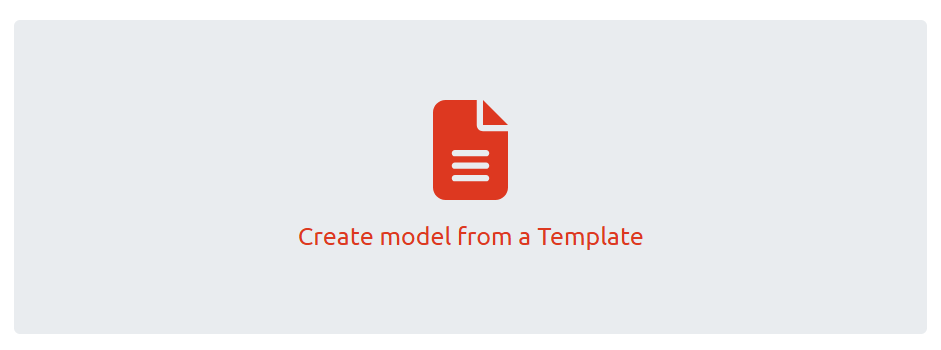
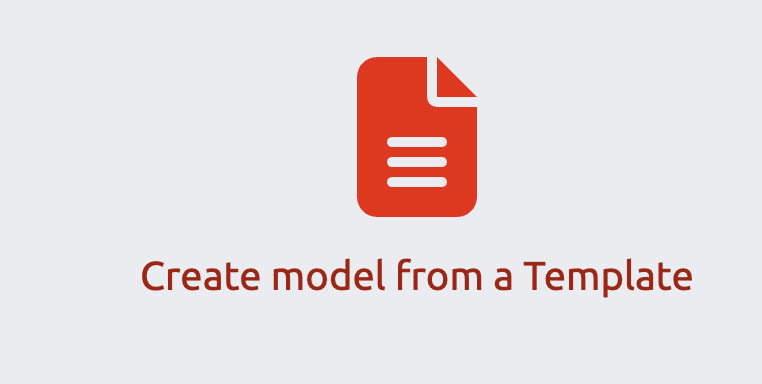
fixed rendering issues with tempalte docs and added more images for further clarity

Changed region(s): [[0.1811, 0.6286, 0.9055, 0.7714], [0.4528, 0.1429, 0.6339, 0.5714]]

diff --git a/docs/usage/templates.md b/docs/usage/templates.md
@@ -1,163 +1,180 @@
 ---
 layout: page
-title: Templates
+title: Template
 nav_order: 4
 path: /usage/templates
 group: Modeling
 ---
-
+ 
 ## Using Templates
-
+ 
 [Threat Dragon](https://owasp.org/www-project-threat-dragon/) supports templates that allow you to
 quickly create new threat models based on pre-defined structures.
-
+ 
 **Note**: The template feature is currently only available for GitHub repositories
 and local users (if they have templates in the local file system).
 Support for Atlassian Bitbucket, GitLab, Google Drive and desktop is not yet implemented.
-
+ 
 ## Create a new model from a template
-
+ 
 ### Using the Web application
-
-![Login image]({{ '/assets/images/login.png' | relative_url }}){: .float-right }
-
-The Threat Dragon web application can be configured with organization-wide templates stored in a
+ 
+ 
+ 
+The Threat Dragon web application can be configured with organisation-wide templates stored in a
 GitHub repository. Templates provide pre-defined threat model structures that help teams get started
 quickly with consistent patterns.
-When using templates, you will need to be logged in to your repository provider (e.g., GitHub)
+ 
+![Template button image]({{ '/assets/images/template-button.png' | relative_url }}){: .float-right style="max-width: 170px; width: 100%;" }
+ 
+When using templates, you will need to be authenticated using the oauth app from your repository provider (GitHub only for now)
 to access the template gallery and save new models created from templates.
-
-To create a new threat model from a template access the welcome page and access template gallery by
-clicking on the **Create model from a Template** button on the Welcome page.
-
-![New model image]({{ '/assets/images/template-button.png' | relative_url }}){: .float-right }
-
-You will then be presented with the Template Gallery showing available templates.
+ 
+To create a new threat model from a template, go to the Welcome page and click the
+**Create model from a Template** button.
+ 
+You will then be presented with the Template Gallery showing all available templates.
 Browse or search for a template that fits your needs, then click on the template card to select it.
-
+ 
+![Template Gallery]({{ '/assets/images/template-gallery.png' | relative_url }}){: style="max-width: 500px; width: 100%;" }
+ 
 After selecting a template, you will be presented with a list of your repositories.
 Pick the one where you want to store your new model.
-If you have more than 30 repos you might have to page through them until you find the one you want.
-
-Once you have picked your target repo, you will be asked to pick a branch.
-Again, if you have more than 30 branches you might need to page through.
-
+If you have more than 30 repos you may need to page through them to find the one you want.
+ 
+Once you have picked your target repository, you will be asked to pick a branch.
+Again, if you have more than 30 branches you may need to page through.
+ 
 When you pick a branch you will be taken to the threat model edit page
 where you can enter general information about your model.
 The template's diagrams, components, and threats will already be populated as a starting point.
 The name that you provide for the model will be used as the file name within the repository.
-
-## Loading a template from local file
-
-![Local template image]({{ '/assets/images/local-template.png' | relative_url }}){: .float-right }
-
-In addition to organization templates, you can also use a local threat model file as a template.
-This is useful when you have received a template file from a colleague or want to use
-an existing model as a starting point for a new one.
-
-From the Template Gallery, click **Import from Local** to browse for a template file
+ 
+## Loading a template from a local file
+ 
+ 
+In addition to organisation templates, you can also start from a local template file.
+This is useful when you have received a template file from a colleague.
+ 
+**Note**: Template files use a different schema to standard threat model files and are not interchangeable.
+To use an existing model as a starting point, first export it as a template using the **Export as Template** option.
+ 
+From the Template Gallery, click **Import from a Local Template** button to browse for a template file
 on your local filesystem.
-
-The file will be validated to ensure it's a properly formatted Threat Dragon template (metadata + model content).
-Once loaded, you can select your target repository and branch just like with organization templates.
-The imported model's diagrams, components, and threats will be used as your starting point.
-
-**Note**: This creates a new model based on the local file - it does not add the template
-to your organization's template repository. Only administrators can add templates to
+![Local template image]({{ '/assets/images/local-template.png' | relative_url }}){: style="max-width: 500px; width: 100%;" }
+ 
+The file will be validated to ensure it is a properly formatted Threat Dragon template (metadata + model content).
+Once loaded, you can select your target repository and branch just like with organisation templates.
+The imported template's diagrams, components, and threats will be used as a starting point for your new threat model.
+ 
+**Note**: This creates a new model based on the local file — it does not add the template
+to your organisation's template repository. Only administrators can add templates to
 the shared template gallery.
-
+ 
 ## Exporting an existing model as a template
-
-**Important** This feature is currently only available for web-based local sessions and GitHub authenticated
+ 
+**Important** : This feature is currently only available for web-based local sessions and GitHub authenticated
 sessions. Support for additional providers will be added in a future release.
-
-![Export template image]({{ '/assets/images/export-template.png' | relative_url }}){: .float-right }
-
+ 
 If you have created a threat model that would be useful as a template for others,
 you can export it as a template file that can be shared or imported later.
-
-From your threat model's details page, click on the manage dropdown and select **Export as Template** button.
-You will be taken to the export template page where you can review and customize the
-template details.
-
+ 
+From your threat model's details page, click on the manage dropdown and select **Export as Template**.
+You will be taken to the export template page where you can review and customise the template details.
+ 
+![Export template image]({{ '/assets/images/export-template-button.png' | relative_url }}){: style="max-width: 400px; width: 100%;" }
+ 
+ 
+![Export template page]({{ '/assets/images/export-template-page.png' | relative_url }}){: style="max-width: 1000px; width: 100%;" }
+ 
 On the export template page, you can:
-
+ 
 * Review the template name and description
 * Add or modify tags for easier searching
-
+ 
 Once you are satisfied with the template details, click **Save Template** to download the
 template file to your local filesystem.
-
+ 
 The exported template file can then be:
-
-* Shared with colleagues who can import it locally using **Import from Local**
-* Sent to administrators to be added to the organization's template repository
-* Used as a backup or starting point for future models
-
-**Note**: The export removes any organization-specific information (like repository paths)
+ 
+* Shared directly with colleagues, allowing them to create a model from local template without requiring it to be stored in the organisation’s template repository.
+* Sent to administrators to be added to the organisation's template repository
+* Used as a local backup or starting point for future models
+ 
+**Note**: The export removes any organisation-specific information (such as repository paths)
 and generates new unique identifiers, making it suitable for use as a reusable template.
-
+ 
 ## Managing Templates (Administrators)
-
-![Manage Templates]({{ '/assets/images/manage-template.png' | relative_url }}){: .float-right }
-
+ 
+ 
+ 
 Users with **push** or **admin** permissions on the template repository (`GITHUB_CONTENT_REPO`)
-are considered administrators and can manage the organization's shared template gallery.
-
-Administrators will see a **cog icon** in the  navigation bar.
-Clicking the cog reveals a dropdown menu with a **Manage Templates** button,
-which directs to manage templates page that allows to perform crud operations on templates.
-
+are considered administrators and can manage the organisation's shared template gallery.
+ 
+Administrators will see a **cog icon** in the navigation bar.
+Clicking the cog reveals a dropdown menu with a **Manage Templates** option,
+which takes you to the Manage Templates page where you can add, edit, and delete templates.
+ 
+![Manage template image]({{ '/assets/images/manage-template.png' | relative_url }}){: style="max-width: 400px; width: 100%;" }
+ 
 For information on configuring the template repository, see the
-[GitHub configuration guide]({{ '/configure/github.html#template-repository-configuration' | relative_url }}).
-
+[GitHub configuration guide](../configure/github.html#template-repository-configuration).
+ 
 ### Bootstrapping the Template Repository
-
-![Manage Templates]({{ '/assets/images/initialise-templates.png' | relative_url }}){: .float-right }
-
-Before templates can be used, an administrator must initialize the template repository structure.
+ 
+ 
+Before templates can be used, an administrator must initialise the template repository structure.
 This creates the necessary folders and metadata files.
-
-1. Log in to Threat Dragon with an account that has admin access to the template repository
-2. Navigate to the Manage Templates
+ 
+1. Authenticate with Threat Dragon using an account that has admin access to the template repository
+2. Navigate to the Manage Templates page
 3. Click the **Initialise** button (only visible to administrators)
-4. Confirm the initialization
-
+4. The repository will be set up automatically
+ 
+![Initialise-templates]({{ '/assets/images/initialise-templates.png' | relative_url }}){: style="max-width: 600px; width: 100%;" }
+ 
 This creates the `templates/` directory and `template_info.json` metadata file in the repository.
 Bootstrapping only needs to be done once per repository.
-
-### Importing Templates to the Organization
-
+ 
+### Importing Templates to the Organisation
+ 
 Administrators can add templates to the shared gallery so all users can access them.
-
+ 
 1. Obtain a template file (either exported from an existing model or received from a colleague)
-2. Navigate to the Manage Templates
-3. Click **Add New Template** button (only visible to administrators)
+2. Navigate to the Manage Templates page
+3. Click the **Add New Template** button (only visible to administrators)
+![import-templates]({{ '/assets/images/import-template-button.png' | relative_url }}){: style="max-width: 170px; width: 100%;"}
 4. Select the template file from your local filesystem
-
+ 
 The template will now appear in the Template Gallery for all users.
-
+ 
 ### Updating Template Metadata
-
+ 
 Administrators can update a template's name, description, or tags without modifying the template content.
-
-1. Navigate to the Manage Templates
+ 
+1. Navigate to the Manage Templates page
 2. Find the template you want to update
-3. Click the burger menu on the template card and click on edit
+3. Click the burger menu on the template card and select **Edit**
 4. Modify the name, description, or tags as needed
-
+ 
+![Burger-Menu]({{ '/assets/images/burger-menu.png' | relative_url }})
+ 
+![Edit-Template]({{ '/assets/images/edit-template.png' | relative_url }})
+ 
 ### Deleting Templates
-
-Administrators can remove templates from the organization gallery.
-
-1. Navigate to the Manage Templates
+ 
+Administrators can delete templates from the organisation template repo.
+ 
+1. Navigate to the Manage Templates page
 2. Find the template you want to delete
-3. Click the burger menu on the template card and click on **delete**
+3. Click the burger menu on the template card and select **Delete**
 4. Confirm the deletion
-
-**Warning**: Deleting a template cannot be undone. Existing threat models created from the template
-are not affected, but the template will no longer be available for creating new models.
-
-**Session timeout** : when logging in to an external drive or repository, be aware that sessions can time out.
-This timeout length can be different according to the repository / drive provider;
-if this is a problem then ensure the session is kept alive using a tab in the same browser window.
+ 
+**Warning**: Deleting a template cannot be undone. Existing threat models created from the
+template are not affected, but the template will no longer be available for creating new models.
+ 
+**Session timeout**: When logging in to an external drive or repository, be aware that sessions
+can time out. This timeout length varies by provider; if this is a problem, keep the session
+alive using a tab in the same browser window.
+ 
+ 
